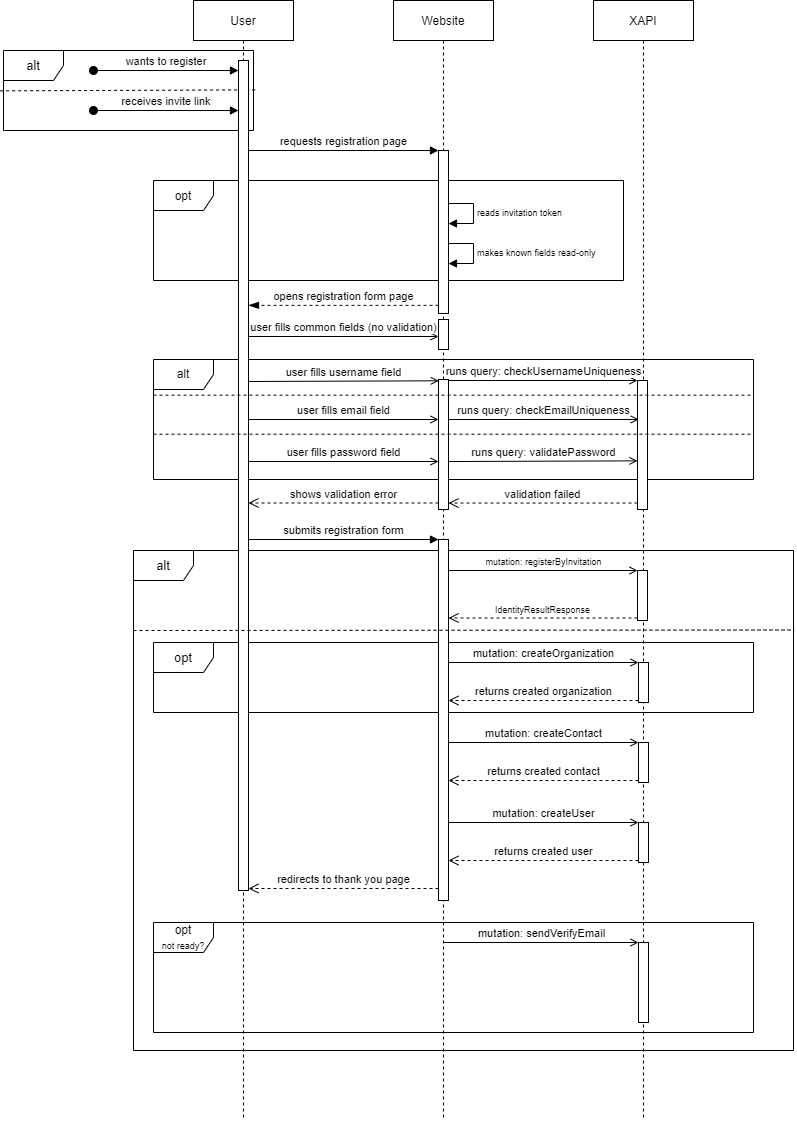
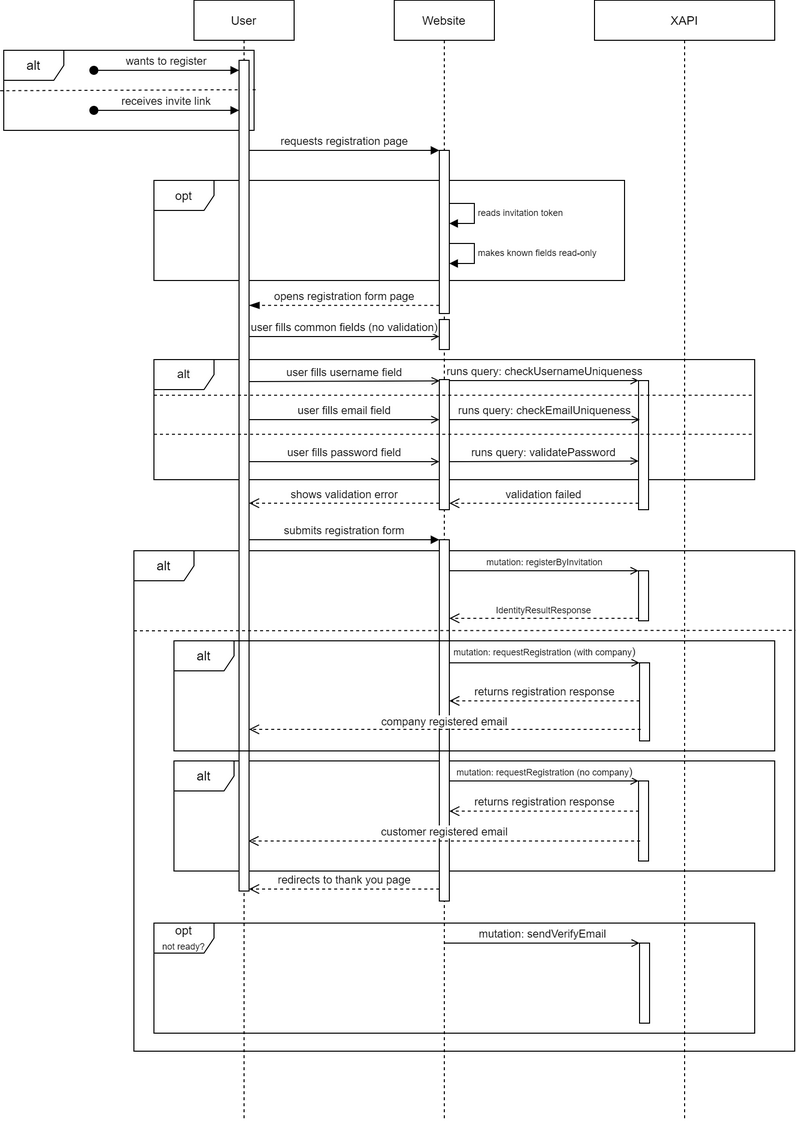
PT-7765: registrationRequest mutation documentation (#14)
* Update index.md
registrationRequest mutation description
Schemas are added
Mutation description is added
Obsolete marks
Formatting

* Update diagram

* docs: Fix language

* Diagrams update

* Mutation rename

* Punctuation fix

diff --git a/docs/index.md b/docs/index.md
@@ -1,13 +1,13 @@
 # Overview
 
-X-Profile module provides high performance search queries for customer and organization data.
+The X-Profile module provides high performance search queries for customer and company data.
 
-## Key features
-Through X-Profile, you can perform create, read, update, and delete (CRUD) operations with **users**, **organizations**, and **contacts**.
+## Key Features
+Through X-Profile, you can perform create, read, update, and delete (CRUD) operations with **users**, **companies**, and **contacts**.
 All such operations can be completed with various queries, which are listed and detailed in the sections below.
 
 ## How It Works
-Just like other xAPI modules, X-Profile module resides on a website's or application's back end and is managed with queries. It enables efficiently creating, updating, and deleting various entity profiles. The chart below shows how X-Profile works in case of creating a new user (customer):
+Just like other xAPI modules, X-Profile resides on a website's or application's back end and is managed with queries. It enables efficiently creating, updating, and deleting various entity profiles. The chart below shows how X-Profile works in case of creating a new user (customer):
 
 ![Creating new user process explained](./media/x-profile-creating-new-user-chart-sm.png)
 
@@ -22,7 +22,8 @@ List of available queries:
 |4|[user](#user)|`id` `userName` `email` `loginProvider` `providerKey`|User|
 
 ### Organization
-With this query, you can get the organization by its ID:
+With this query, you can get the organization (company) by its ID:
+
 ```
 {
   organization(id: "689a72757c754bef97cde51afc663430") {
@@ -45,8 +46,10 @@ With this query, you can get the organization by its ID:
   }
 }
 ```
+
 ### Contact
 With this query, you can get the contact by its ID:
+
 ```
 {
   contact(id: "5f807280-bb1a-42b2-9a96-ed107269ea06") {
@@ -73,8 +76,10 @@ With this query, you can get the contact by its ID:
   }
 }
 ```
+
 ### Role
 With this query, you can get the role by its name:
+
 ```
 {
   role(roleName: "Store administrator") {
@@ -84,8 +89,10 @@ With this query, you can get the role by its name:
   }
 }
 ```
+
 ### User
 With this query, you can get the user by a few arguments
+
 ```
 {
   user(id: "9b605a3096ba4cc8bc0b8d80c397c59f") {
@@ -112,19 +119,21 @@ List of mutations:
 
 |#|Endpoint|Arguments|Description|
 |-|-|-|-|
-|1|[createContact](#createcontact)|`id` `name!` `memberType` `addresses` `phones` `emails` `groups` `fullName` `firstName!` `lastName!` `middleName` `salutation` `photoUrl` `timeZone` `defaultLanguage` `organizations`|Creates a contact|
+|1|[createContact](#createcontact)|`id` `name!` `memberType` `addresses` `phones` `emails` `groups` `fullName` `firstName!` `lastName!` `middleName` `salutation` `photoUrl` `timeZone` `defaultLanguage` `organizations`|Creates a contact (obsolete, use [registrationRequest](#registrationRequest))|
 |2|[updateContact](#updatecontact)|`id!` `name` `memberType` `addresses` `phones` `emails` `groups` `fullName` `firstName!` `lastName!` `middleName` `salutation` `photoUrl` `timeZone` `defaultLanguage` `organizations`|Updates a contact|
 |3|[deleteContact](#deletecontact)|`contactId!`|Deletes a contact|
 |4|[createUser](#createuser)|`id` `email` `createdBy` `createdDate` `isAdministrator` `lockoutEnabled` `lockoutEnd` `logins` `memberId` `password` `phoneNumber` `phoneContactConfirmed` `photoUrl` `roles` `storeId` `twoFactorEnabled` `userName` `userType`|Creates a user|
 |5|[updateUser](#updateuser)|`accessFailedCount` `email!` `id!` `isAdministrator` `lockoutEnabled` `lockoutEnd` `memberId` `phoneNumber` `phoneNumberConfirmed` `photoUrl` `roles` `storeId` `twoFactorEnabled` `userName!` `userType!` `passwordHash` `securityStamp!`|Updates a user|
 |6|[deleteUsers](#deleteusers)|`userNames!`|Delete a users|
 |7|[updateAddresses](#updateaddresses)|`contactId!` `addresses!`|Update an addresses|
-|8|[createOrganization](#createorganization)|`id` `name` `memberType` `addresses` `phones` `emails` `groups`|Creates an organization|
+|8|[createOrganization](#createorganization)|`id` `name` `memberType` `addresses` `phones` `emails` `groups`|Creates an organization (obsolete, use [registrationRequest](#registrationRequest))|
 |9|[updateOrganization](#updateorganization)|`id!` `name` `memberType` `addresses` `phones` `emails` `groups`|Updates an organization|
 |10|[updateRole](#updaterole)|`concurrencyStamp` `id!` `name!` `description` `permissions!`|Updates a role|
+|11|[registrationRequest](#registrationRequest)|`storeId!` `company!` `contact` `account`|Registers customer or company|
 
 ### CreateContact
 #### Query:
+
 ```
 mutation($command: InputCreateContactType!) {
   createContact(command: $command) {
@@ -135,7 +144,9 @@ mutation($command: InputCreateContactType!) {
   }
 }
 ```
+
 #### Variables:
+
 ```
 {
   "command": {
@@ -148,11 +159,13 @@ mutation($command: InputCreateContactType!) {
           "value": "test value"
       }
     ]
-	}
+  }
 }
 ```
+
 ### UpdateContact
 #### Query:
+
 ```
 mutation($command: InputUpdateContactType!){
   updateContact(command: $command) {
@@ -161,7 +174,9 @@ mutation($command: InputUpdateContactType!){
   }
 }
 ```
+
 #### Variables:
+
 ```
 {
   "command": {
@@ -177,8 +192,10 @@ mutation($command: InputUpdateContactType!){
 	}
 }
 ```
+
 ### DeleteContact
 #### Query:
+
 ```
 mutation($command: InputDeleteContactType!){
   deleteContact(command: $command)
@@ -192,8 +209,10 @@ mutation($command: InputDeleteContactType!){
   }
 }
 ```
+
 ### CreateUser
 #### Query:
+
 ```
 mutation($command: InputCreateUserType!) {
   createUser(command: $command) {
@@ -201,7 +220,9 @@ mutation($command: InputCreateUserType!) {
   }
 }
 ```
+
 #### Variables:
+
 ```
 {
   "command": {
@@ -211,8 +232,10 @@ mutation($command: InputCreateUserType!) {
   }
 }
 ```
+
 ### UpdateUser
 #### Query:
+
 ```
 mutation($command: InputUpdateUserType!) {
   updateUser(command: $command) {
@@ -224,7 +247,9 @@ mutation($command: InputUpdateUserType!) {
   }
 }
 ```
+
 #### Variables:
+
 ```
 {
   "command": {
@@ -236,9 +261,12 @@ mutation($command: InputUpdateUserType!) {
   }
 }
 ```
+
 > SecurityStamp is a random value that must change whenever user credentials, i.e. login or password, change.
+
 ### DeleteUsers
 #### Query:
+
 ```
 mutation($command: InputDeleteUserType!) {
   deleteUsers(command: $command) {
@@ -250,7 +278,9 @@ mutation($command: InputDeleteUserType!) {
   }
 }
 ```
+
 #### Variables:
+
 ```
 {
   "command": {
@@ -258,8 +288,10 @@ mutation($command: InputDeleteUserType!) {
   }
 }
 ```
+
 ### UpdateAddresses
 #### Query:
+
 ```
 mutation($command: InputUpdateContactAddressType!) {
   updateAddresses(command: $command) {
@@ -269,7 +301,9 @@ mutation($command: InputUpdateContactAddressType!) {
   }
 }
 ```
+
 #### Variables:
+
 ```
 {
   "command": {
@@ -287,9 +321,12 @@ mutation($command: InputUpdateContactAddressType!) {
   }
 }
 ```
-> Address type: **1** - Billing, **2** - Shipping, **3** - BillingAndShipping
+
+> Address type: **1** stands for Billing, **2**, for Shipping, and **3**, for BillingAndShipping
+
 ### CreateOrganization
 #### Query:
+
 ```
 mutation($command: InputCreateOrganizationType!) {
   createOrganization(command: $command) {
@@ -299,7 +336,9 @@ mutation($command: InputCreateOrganizationType!) {
   }
 }
 ```
+
 #### Variables:
+
 ```
 {
   "command": {
@@ -314,8 +353,10 @@ mutation($command: InputCreateOrganizationType!) {
   }
 }
 ```
+
 ### UpdateOrganization
 #### Query:
+
 ```
 mutation($command: InputUpdateOrganizationType!) {
   updateOrganization(command: $command) {
@@ -325,7 +366,9 @@ mutation($command: InputUpdateOrganizationType!) {
   }
 }
 ```
+
 #### Variables:
+
 ```
 {
   "command": {
@@ -341,8 +384,10 @@ mutation($command: InputUpdateOrganizationType!) {
   }
 }
 ```
+
 ### UpdateRole
 #### Query:
+
 ```
 mutation($command: InputUpdateRoleType!) {
   updateRole(command: $command) {
@@ -354,7 +399,9 @@ mutation($command: InputUpdateRoleType!) {
   }
 }
 ```
+
 #### Variables:
+
 ```
 {
   "command": {
@@ -372,4 +419,79 @@ mutation($command: InputUpdateRoleType!) {
   }
 }
 ```
-> ConcurrencyStamp is a random value that must change whenever a role is assigned to the store.
+
+> ConcurrencyStamp is a random value that must get changed whenever a role is assigned to the store.
+
+### RequestRegistration
+#### Query:
+
+```
+mutation requestRegistration (command: InputRequestRegistrationType!) {
+    registrationRequest(command: $command) {
+        organization {
+            id
+            name
+            status
+            createdBy
+            ownerId
+        }
+        contact {
+            id
+            name
+            status
+            createdBy
+        }
+        account {
+            id
+            username
+            email
+            status
+        }
+        result {
+            succeede
+            errors
+        }
+    }
+}
+    
+```
+
+#### Variables:
+
+```
+{
+  "command": {
+    "storeId": "store_id",
+    "contact": {
+      "firstName": "first_name",
+      "lastName": "last_name",
+      "phoneNumber": "phone_number"
+    },
+    "organization": {
+      "name": "company_name"
+      "description": "description"
+      "address": {
+        "city": "City"
+        "countryCode":"USA"
+        "countryName":"United States"
+        "email":"e@mail.test"
+        "firstName":"First_name"
+        "lastName:"Last_name"
+        "line1":"line1"
+        "postalCode":"123654"
+      }
+    }
+    "account": {
+      "username": "user_name",
+      "password": "password",
+      "email": "e@mail.test" 
+    }
+  }
+}
+```
+
+> The mutation registers a company when all argumets have been provided, and registers a customer only when the company value is null. If a company is created, the customer becomes its member and owner.
+>
+> The user that creates a company and/or customer is always displayed as *frontend*.
+>
+> The company status is determined by the *Company default status* store setting, while contact and account statuses come from the *Contact default status* setting. Both settings must be provided in advance.
